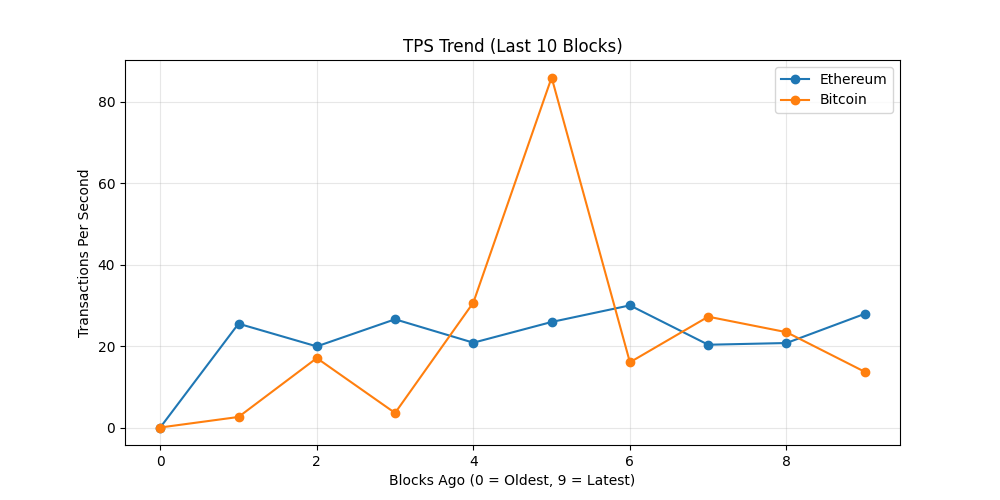
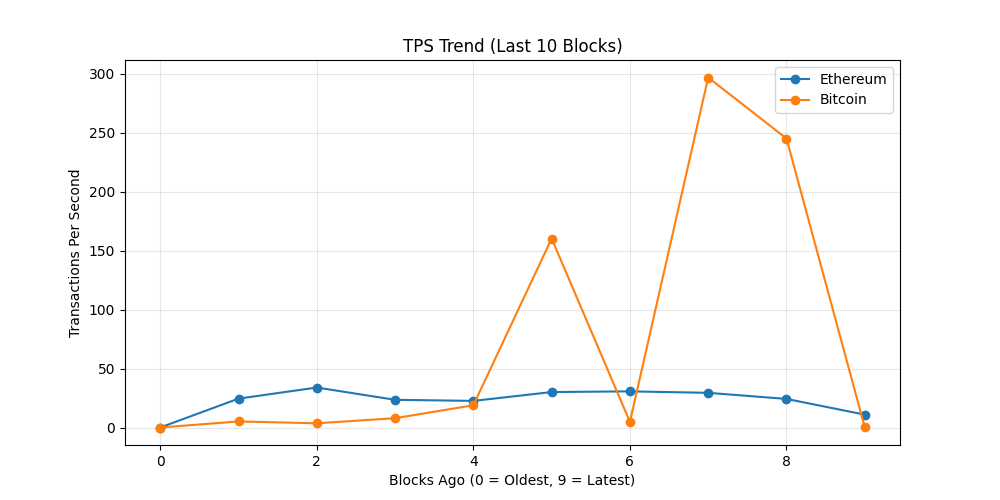
chore: update on-chain dashboard

diff --git a/README.md b/README.md
@@ -19,7 +19,7 @@ The README itself acts as the dashboard and is regenerated automatically on a 6 
 demonstrating a production-style, infrastructure-focused observability workflow rather
 than a traditional UI-driven approach.
 
-_Last updated: 2026-09-17 11:39 UTC_
+_Last updated: 2026-09-17 16:58 UTC_
 
 ## API Usage (GetBlock.io)
 - Calls used: **24**
@@ -27,8 +27,8 @@ _Last updated: 2026-09-17 11:39 UTC_
 ## Network Metrics
 | Chain | Block Height | TX Count | TPS (10 blk avg) | Block Util | Avg Fee |
 |------|-------------|----------|------------------|------------|---------|
-| Ethereum | 25996965 | 335 | 27.92 | 59.24% | 0.1 Gwei |
-| Bitcoin | 967403 | 6034 | 13.68 | 99.8% | N/A |
+| Ethereum | 25998554 | 131 | 10.92 | 60.52% | 0.3 Gwei |
+| Bitcoin | 967440 | 26 | 0.2 | 99.85% | N/A |
 
 ## Visuals
 ### Transactions Trend
@@ -43,11 +43,7 @@ _Last updated: 2026-09-17 11:39 UTC_
 ## Whale Alerts (latest block)
 - Transaction hashes are truncated for readability.
 - Full hashes are available in `dashboards/metrics.json`
-- Bitcoin | 128.26 BTC | `6cccbd1defe1…`
-- Bitcoin | 131.49 BTC | `515f935003ce…`
-- Bitcoin | 365.63 BTC | `86c25d2998b8…`
-- Bitcoin | 1739.22 BTC | `5c38882eae80…`
-- Bitcoin | 153.53 BTC | `4e74d3c20e1c…`
+No whale-sized transfers detected in latest blocks.
 
 ## Run locally
 
